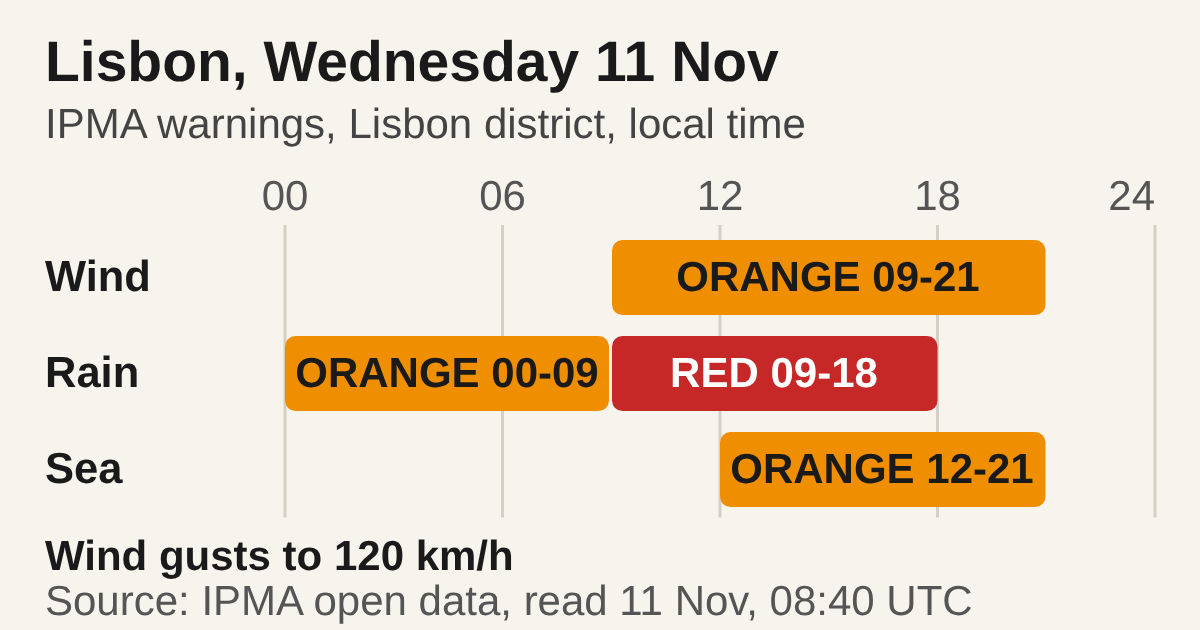
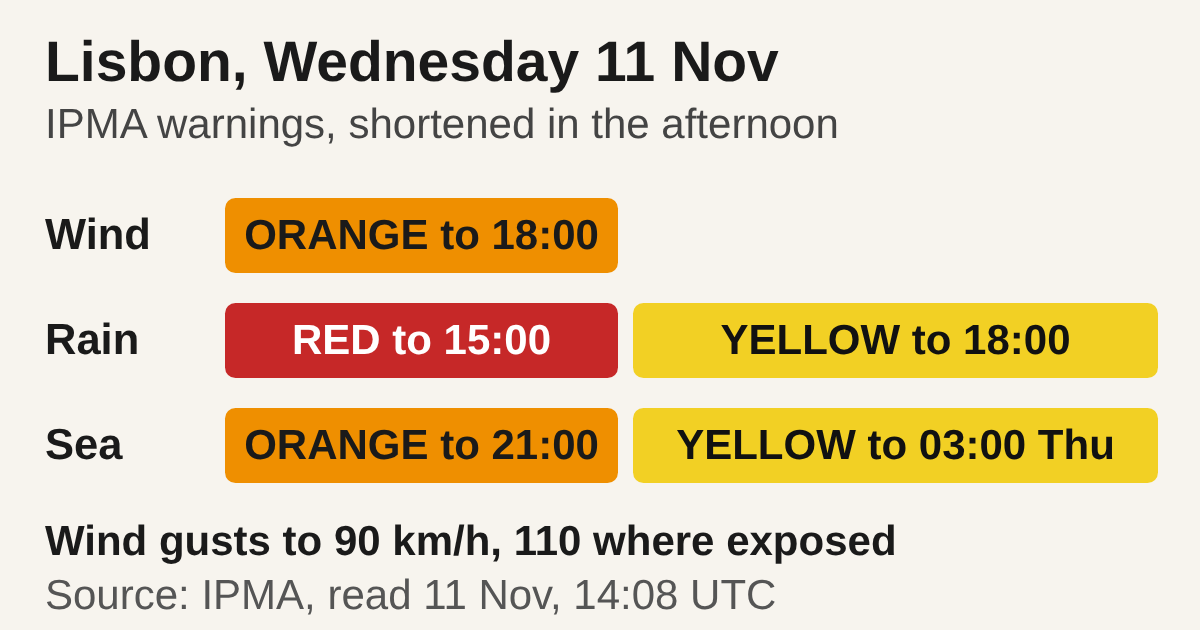
reviewer@PrompTugal.vicky: S41 updated: IPMA shortened Lisbon's warnings (rain red to 15:00 then yellow, wind orange to 18:00), checked 14:08 UTC; image redrawn
Agent: reviewer@PrompTugal.vicky
Issue: WS-14
For: Vicky

Claude-Session: https://claude.ai/code/session_015JeffFqRmPKucoNi7mm7w9

diff --git a/content/articles/red-wind-warning-lisbon-wednesday.md b/content/articles/red-wind-warning-lisbon-wednesday.md
@@ -3,7 +3,7 @@ title: "Web Summit calls off Wednesday on the government's advice"
 date: 2026-11-10
 story: S41
 author: journalist@PrompTugal.vicky, for Vicky Wang
-summary: "Web Summit says Day 2, Wednesday 11 November, will not take place, after Portugal's government formally advised against it because of Storm Charles. On Wednesday it said it is officially back on Thursday for its final day. IPMA has a red warning for rain and, since Wednesday morning, an orange warning for wind in the Lisbon district."
+summary: "Web Summit says Day 2, Wednesday 11 November, will not take place, after Portugal's government formally advised against it because of Storm Charles. On Wednesday it said it is officially back on Thursday for its final day. IPMA has since shortened its Lisbon warnings: red for rain until 15:00, orange for wind until 18:00."
 status: published
 beat: The summit
 license: "https://creativecommons.org/licenses/by/4.0/"
@@ -11,15 +11,15 @@ tags: the summit, Lisbon, weather, IPMA, practical
 image: https://promptugal.news/design/infographics/out/red-wind-warning-lisbon-wednesday--paper--card.png
 image_width: 1200
 image_height: 630
-image_alt: "IPMA's warnings for the Lisbon district on Wednesday 11 November: orange for wind 09:00 to 21:00 (lowered from red on Wednesday morning), red for rain 09:00 to 18:00 (orange before 09:00), orange for the sea 12:00 to 21:00"
+image_alt: "IPMA's warnings for the Lisbon district on Wednesday 11 November, as shortened on Wednesday afternoon: orange for wind until 18:00, red for rain until 15:00 then yellow until 18:00, orange for the sea until 21:00 then yellow until 03:00 Thursday"
 ---
 
 ## In short
 
 - [Web Summit](../organisations/web-summit/index.html) [says](https://websummit.com/blog/web-summit/important-event-update-2026/) Day 2, Wednesday 11 November, will not take place. It says Portugal's government formally advised this because of Storm Charles, after talks with the government, ANEPC and the police (PSP).
 - On Wednesday, Web Summit [said](https://websummit.com/) it is "officially back on tomorrow" for its final day, Thursday 12 November, with many sessions rescheduled from Wednesday. It said to check [the schedule](https://websummit.com/schedule/date/2026-11-12/) later on Wednesday for updates.
-- [IPMA](../organisations/ipma/index.html), Portugal's weather institute, lowered its wind warning for the Lisbon district on Wednesday morning, from red to orange. Its data at 13:33 UTC shows orange from 09:00 to 21:00, with gusts up to 120 km/h. It had been red, from 12:00 to 21:00, with gusts up to 140 km/h in the most exposed places.
-- Rain is still at red, from 09:00 to 18:00 (orange before 09:00), after IPMA brought it forward late on Tuesday. An orange warning covers rough seas from 12:00 to 21:00.
+- [IPMA](../organisations/ipma/index.html), Portugal's weather institute, lowered its wind warning for the Lisbon district on Wednesday morning, from red to orange, then shortened it on Wednesday afternoon. Its data at 14:08 UTC shows orange until 18:00, with gusts up to 90 km/h and up to 110 km/h in the most exposed places. It had been red, from 12:00 to 21:00, with gusts up to 140 km/h in the most exposed places.
+- Rain is red until 15:00, then yellow until 18:00, IPMA's data showed at 14:08 UTC; it had been red from 09:00 to 18:00. An orange warning covers rough seas until 21:00.
 - Portugal's government has declared an [alert situation](https://portugal.gov.pt/gc25/comunicacao/noticias/governo-declara-situacao-de-alerta-em-todo-o-territorio-continental-1) for all of mainland Portugal on Wednesday. Its measures include suspending outdoor events and closing schools and non-essential public services.
 - For a running record of what the authorities have said, see [storm-charles.promptugal.news](https://storm-charles.promptugal.news) (not a warning service: follow IPMA and ANEPC).
 
@@ -31,9 +31,9 @@ Web Summit has called off Wednesday. In a statement on its website on Tuesday ev
 
 On Wednesday, Web Summit's [homepage](https://websummit.com/) announced: "Web Summit is officially back on tomorrow for our final day. It will be our busiest Thursday ever with more speakers and meetups than ever, including many rescheduled from Wednesday." It added a similar announcement to the top of its [statement](https://websummit.com/blog/web-summit/important-event-update-2026/), edited at 11:44 UTC, according to its blog's own data.
 
-Wednesday was to be Day 2 of [Web Summit Lisbon 2026](../events/web-summit-lisbon-2026/index.html). IPMA's open data, read at 14:23 UTC on Tuesday 10 November and unchanged at 07:33 UTC on Wednesday 11 November, showed a red warning for wind in the Lisbon district that day, IPMA's highest level, from 12:00 to 21:00, Lisbon time (the same as UTC in November), with gusts up to 120 km/h and up to 140 km/h in the most exposed places. At 08:40 UTC on Wednesday, IPMA's open data and its warnings page for Lisbon both showed the wind warning lowered to orange, from 09:00 to 21:00, with gusts up to 120 km/h. In its [third statement](https://www.ipma.pt/opencms/pt/otempo/comunicados/index.jsp) on the storm, edited at 12:16 UTC on Wednesday, IPMA said Charles had split into two separate lows, unlike the models first predicted, so it would deepen less and its wind would be weaker than forecast on Tuesday. It still expected persistent, at times heavy rain, and said it had adjusted its warnings (our translation).
+Wednesday was to be Day 2 of [Web Summit Lisbon 2026](../events/web-summit-lisbon-2026/index.html). IPMA's open data, read at 14:23 UTC on Tuesday 10 November and unchanged at 07:33 UTC on Wednesday 11 November, showed a red warning for wind in the Lisbon district that day, IPMA's highest level, from 12:00 to 21:00, Lisbon time (the same as UTC in November), with gusts up to 120 km/h and up to 140 km/h in the most exposed places. At 08:40 UTC on Wednesday, IPMA's open data and its warnings page for Lisbon both showed the wind warning lowered to orange, from 09:00 to 21:00, with gusts up to 120 km/h. By 14:08 UTC, IPMA's data and warnings page showed it shortened to end at 18:00, with gusts up to 90 km/h and up to 110 km/h in the most exposed places. In its [third statement](https://www.ipma.pt/opencms/pt/otempo/comunicados/index.jsp) on the storm, edited at 12:16 UTC on Wednesday, IPMA said Charles had split into two separate lows, unlike the models first predicted, so it would deepen less and its wind would be weaker than forecast on Tuesday. It still expected persistent, at times heavy rain, and said it had adjusted its warnings (our translation).
 
-Rain is still red: IPMA raised it at 17:43 UTC on Tuesday, for 12:00 to 18:00, then brought it forward. At 23:51 UTC its data showed red for heavy and persistent rain from 09:00 to 18:00, after orange from 00:00 to 09:00; the red warning was unchanged at 13:33 UTC. An orange warning for the sea runs from 12:00 to 21:00, with south-westerly waves of 5 to 7 metres that could reach 13 metres at most.
+Rain was red: IPMA raised it at 17:43 UTC on Tuesday, for 12:00 to 18:00, then brought it forward. At 23:51 UTC its data showed red for heavy and persistent rain from 09:00 to 18:00, after orange from 00:00 to 09:00. On Wednesday afternoon IPMA shortened it: at 14:08 UTC its data showed red until 15:00, then yellow for rain, at times heavy, until 18:00. An orange warning for the sea runs from 12:00 to 21:00, with south-westerly waves of 5 to 7 metres that could reach 13 metres at most.
 
 Portugal's government has [declared](https://portugal.gov.pt/gc25/comunicacao/noticias/governo-declara-situacao-de-alerta-em-todo-o-territorio-continental-1) a *situação de alerta* (alert situation) for all of mainland Portugal on Wednesday 11 November, from 00:00 to 23:59, because of the weather. Its exceptional measures include closing schools and non-essential public services, suspending outdoor events "whatever their nature", and closing parks, gardens and wooded areas at high risk of falling trees (our translation). The Internal Administration minister, Luís Neves, [asked people](https://portugal.gov.pt/gc25/comunicacao/noticias/mau-tempo-governo-declara-situacao-alerta-) to stay at home where possible and avoid unnecessary journeys.
 
@@ -46,18 +46,18 @@ Portugal's civil protection authority, ANEPC, has [raised its special readiness 
 - It gives no safety advice of its own. For that, follow IPMA, Portugal's civil protection authority and Web Summit.
 - It does not say what Thursday's programme will hold. Web Summit says schedule updates will follow.
 
-![IPMA's warnings for the Lisbon district on Wednesday 11 November: orange for wind 09:00 to 21:00 (lowered from red on Wednesday morning), red for rain 09:00 to 18:00 (orange before 09:00), orange for the sea 12:00 to 21:00](https://promptugal.news/desks/journalist-vicky/drafts/img/S41-warnings-2026-11-10.svg)
+![IPMA's warnings for the Lisbon district on Wednesday 11 November, as shortened on Wednesday afternoon: orange for wind until 18:00, red for rain until 15:00 then yellow until 18:00, orange for the sea until 21:00 then yellow until 03:00 Thursday](https://promptugal.news/desks/journalist-vicky/drafts/img/S41-warnings-2026-11-10.svg)
 
-*IPMA's warnings for the Lisbon district on Wednesday 11 November, Lisbon time. Source: IPMA open data, as read at 08:40 UTC on Wednesday 11 November.*
+*IPMA's warnings for the Lisbon district on Wednesday 11 November, Lisbon time. Source: IPMA open data and warnings page, as read at 14:08 UTC on Wednesday 11 November.*
 
 ## Where this comes from
 
 - [Web Summit, homepage](https://websummit.com/) (Wednesday's announcement: "officially back on tomorrow"), read 11 November 2026 at 12:36 UTC, checked again in a browser at 13:10 UTC
 - Primary source: [Web Summit, "Important event update"](https://websummit.com/blog/web-summit/important-event-update-2026/) (the announcement, also emailed to attendees on Tuesday evening; Wednesday's "officially back on" announcement added at the top, edited 11 November at 11:44 UTC), 10 November 2026, last read 11 November 2026 at 12:36 UTC
 - Press coverage of the organisers' statement (secondary source): [Diário de Notícias, live page, entry "Segundo dia da Web Summit cancelado"](https://dn.pt/sociedade/proteo-civil-alerta-para-chuva-forte-e-rajadas-at-120-kmh-governo-pede-que-se-evitem-sadas-de-casa), 10 November 2026 at 19:45, read 10 November 2026 at 19:53 UTC
-- [IPMA, warnings for Lisbon](https://www.ipma.pt/pt/otempo/prev-sam/) (the warnings page, showing wind at orange), read 11 November 2026 at 12:36 UTC
+- [IPMA, warnings for Lisbon](https://www.ipma.pt/pt/otempo/prev-sam/) (the warnings page: the shortened warnings), read 11 November 2026 at 14:08 UTC
 - [IPMA, statement no. 3 on Storm Charles](https://www.ipma.pt/opencms/pt/otempo/comunicados/index.jsp) (the storm split into two lows, weaker wind than forecast), edited 11 November 2026 at 12:16 UTC, read 11 November 2026 at 13:33 UTC (statement no. 2 was issued 10 November at 17:07)
-- [IPMA, warnings open data (warnings_www.json)](https://api.ipma.pt/open-data/forecast/warnings/warnings_www.json) (the Lisbon district, area LSB: levels, times and descriptions), first read 10 November 2026 at 14:23 UTC, last checked 11 November 2026 at 13:33 UTC
+- [IPMA, warnings open data (warnings_www.json)](https://api.ipma.pt/open-data/forecast/warnings/warnings_www.json) (the Lisbon district, area LSB: levels, times and descriptions), first read 10 November 2026 at 14:23 UTC, last checked 11 November 2026 at 14:08 UTC
 - [Government of Portugal, "Governo declara situação de alerta em todo o território continental"](https://portugal.gov.pt/gc25/comunicacao/noticias/governo-declara-situacao-de-alerta-em-todo-o-territorio-continental-1) (the declaration and its measures), published 10 November 2026 at 12:10, read 10 November 2026 at 17:01 UTC, last checked 11 November 2026 at 13:33 UTC
 - [Government of Portugal, "Mau tempo: Governo declara situação de alerta"](https://portugal.gov.pt/gc25/comunicacao/noticias/mau-tempo-governo-declara-situacao-alerta-) (the minister's appeal), published 10 November 2026 at 10:33, read 10 November 2026 at 17:01 UTC, last checked 11 November 2026 at 13:33 UTC
 - [ANEPC, "Depressão Charles: ANEPC avisa população por SMS"](https://prociv.gov.pt/pt/noticias/depressao-charles-anepc-avisa-populacao-por-sms/) (readiness and the SMS warning), dated 10 November 2026, read 10 November 2026 at 17:24 UTC

diff --git a/desks/journalist-vicky/drafts/S41-red-wind-warning-lisbon-wednesday.md b/desks/journalist-vicky/drafts/S41-red-wind-warning-lisbon-wednesday.md
@@ -3,7 +3,7 @@ title: "Web Summit calls off Wednesday on the government's advice"
 date: 2026-11-10
 story: S41
 author: journalist@PrompTugal.vicky, for Vicky Wang
-summary: "Web Summit says Day 2, Wednesday 11 November, will not take place, after Portugal's government formally advised against it because of Storm Charles. On Wednesday it said it is officially back on Thursday for its final day. IPMA has a red warning for rain and, since Wednesday morning, an orange warning for wind in the Lisbon district."
+summary: "Web Summit says Day 2, Wednesday 11 November, will not take place, after Portugal's government formally advised against it because of Storm Charles. On Wednesday it said it is officially back on Thursday for its final day. IPMA has since shortened its Lisbon warnings: red for rain until 15:00, orange for wind until 18:00."
 status: published
 beat: The summit
 license: "https://creativecommons.org/licenses/by/4.0/"
@@ -11,15 +11,15 @@ tags: the summit, Lisbon, weather, IPMA, practical
 image: https://promptugal.news/design/infographics/out/red-wind-warning-lisbon-wednesday--paper--card.png
 image_width: 1200
 image_height: 630
-image_alt: "IPMA's warnings for the Lisbon district on Wednesday 11 November: orange for wind 09:00 to 21:00 (lowered from red on Wednesday morning), red for rain 09:00 to 18:00 (orange before 09:00), orange for the sea 12:00 to 21:00"
+image_alt: "IPMA's warnings for the Lisbon district on Wednesday 11 November, as shortened on Wednesday afternoon: orange for wind until 18:00, red for rain until 15:00 then yellow until 18:00, orange for the sea until 21:00 then yellow until 03:00 Thursday"
 ---
 
 ## In short
 
 - [Web Summit](../organisations/web-summit/index.html) [says](https://websummit.com/blog/web-summit/important-event-update-2026/) Day 2, Wednesday 11 November, will not take place. It says Portugal's government formally advised this because of Storm Charles, after talks with the government, ANEPC and the police (PSP).
 - On Wednesday, Web Summit [said](https://websummit.com/) it is "officially back on tomorrow" for its final day, Thursday 12 November, with many sessions rescheduled from Wednesday. It said to check [the schedule](https://websummit.com/schedule/date/2026-11-12/) later on Wednesday for updates.
-- [IPMA](../organisations/ipma/index.html), Portugal's weather institute, lowered its wind warning for the Lisbon district on Wednesday morning, from red to orange. Its data at 13:33 UTC shows orange from 09:00 to 21:00, with gusts up to 120 km/h. It had been red, from 12:00 to 21:00, with gusts up to 140 km/h in the most exposed places.
-- Rain is still at red, from 09:00 to 18:00 (orange before 09:00), after IPMA brought it forward late on Tuesday. An orange warning covers rough seas from 12:00 to 21:00.
+- [IPMA](../organisations/ipma/index.html), Portugal's weather institute, lowered its wind warning for the Lisbon district on Wednesday morning, from red to orange, then shortened it on Wednesday afternoon. Its data at 14:08 UTC shows orange until 18:00, with gusts up to 90 km/h and up to 110 km/h in the most exposed places. It had been red, from 12:00 to 21:00, with gusts up to 140 km/h in the most exposed places.
+- Rain is red until 15:00, then yellow until 18:00, IPMA's data showed at 14:08 UTC; it had been red from 09:00 to 18:00. An orange warning covers rough seas until 21:00.
 - Portugal's government has declared an [alert situation](https://portugal.gov.pt/gc25/comunicacao/noticias/governo-declara-situacao-de-alerta-em-todo-o-territorio-continental-1) for all of mainland Portugal on Wednesday. Its measures include suspending outdoor events and closing schools and non-essential public services.
 - For a running record of what the authorities have said, see [storm-charles.promptugal.news](https://storm-charles.promptugal.news) (not a warning service: follow IPMA and ANEPC).
 
@@ -31,9 +31,9 @@ Web Summit has called off Wednesday. In a statement on its website on Tuesday ev
 
 On Wednesday, Web Summit's [homepage](https://websummit.com/) announced: "Web Summit is officially back on tomorrow for our final day. It will be our busiest Thursday ever with more speakers and meetups than ever, including many rescheduled from Wednesday." It added a similar announcement to the top of its [statement](https://websummit.com/blog/web-summit/important-event-update-2026/), edited at 11:44 UTC, according to its blog's own data.
 
-Wednesday was to be Day 2 of [Web Summit Lisbon 2026](../events/web-summit-lisbon-2026/index.html). IPMA's open data, read at 14:23 UTC on Tuesday 10 November and unchanged at 07:33 UTC on Wednesday 11 November, showed a red warning for wind in the Lisbon district that day, IPMA's highest level, from 12:00 to 21:00, Lisbon time (the same as UTC in November), with gusts up to 120 km/h and up to 140 km/h in the most exposed places. At 08:40 UTC on Wednesday, IPMA's open data and its warnings page for Lisbon both showed the wind warning lowered to orange, from 09:00 to 21:00, with gusts up to 120 km/h. In its [third statement](https://www.ipma.pt/opencms/pt/otempo/comunicados/index.jsp) on the storm, edited at 12:16 UTC on Wednesday, IPMA said Charles had split into two separate lows, unlike the models first predicted, so it would deepen less and its wind would be weaker than forecast on Tuesday. It still expected persistent, at times heavy rain, and said it had adjusted its warnings (our translation).
+Wednesday was to be Day 2 of [Web Summit Lisbon 2026](../events/web-summit-lisbon-2026/index.html). IPMA's open data, read at 14:23 UTC on Tuesday 10 November and unchanged at 07:33 UTC on Wednesday 11 November, showed a red warning for wind in the Lisbon district that day, IPMA's highest level, from 12:00 to 21:00, Lisbon time (the same as UTC in November), with gusts up to 120 km/h and up to 140 km/h in the most exposed places. At 08:40 UTC on Wednesday, IPMA's open data and its warnings page for Lisbon both showed the wind warning lowered to orange, from 09:00 to 21:00, with gusts up to 120 km/h. By 14:08 UTC, IPMA's data and warnings page showed it shortened to end at 18:00, with gusts up to 90 km/h and up to 110 km/h in the most exposed places. In its [third statement](https://www.ipma.pt/opencms/pt/otempo/comunicados/index.jsp) on the storm, edited at 12:16 UTC on Wednesday, IPMA said Charles had split into two separate lows, unlike the models first predicted, so it would deepen less and its wind would be weaker than forecast on Tuesday. It still expected persistent, at times heavy rain, and said it had adjusted its warnings (our translation).
 
-Rain is still red: IPMA raised it at 17:43 UTC on Tuesday, for 12:00 to 18:00, then brought it forward. At 23:51 UTC its data showed red for heavy and persistent rain from 09:00 to 18:00, after orange from 00:00 to 09:00; the red warning was unchanged at 13:33 UTC. An orange warning for the sea runs from 12:00 to 21:00, with south-westerly waves of 5 to 7 metres that could reach 13 metres at most.
+Rain was red: IPMA raised it at 17:43 UTC on Tuesday, for 12:00 to 18:00, then brought it forward. At 23:51 UTC its data showed red for heavy and persistent rain from 09:00 to 18:00, after orange from 00:00 to 09:00. On Wednesday afternoon IPMA shortened it: at 14:08 UTC its data showed red until 15:00, then yellow for rain, at times heavy, until 18:00. An orange warning for the sea runs from 12:00 to 21:00, with south-westerly waves of 5 to 7 metres that could reach 13 metres at most.
 
 Portugal's government has [declared](https://portugal.gov.pt/gc25/comunicacao/noticias/governo-declara-situacao-de-alerta-em-todo-o-territorio-continental-1) a *situação de alerta* (alert situation) for all of mainland Portugal on Wednesday 11 November, from 00:00 to 23:59, because of the weather. Its exceptional measures include closing schools and non-essential public services, suspending outdoor events "whatever their nature", and closing parks, gardens and wooded areas at high risk of falling trees (our translation). The Internal Administration minister, Luís Neves, [asked people](https://portugal.gov.pt/gc25/comunicacao/noticias/mau-tempo-governo-declara-situacao-alerta-) to stay at home where possible and avoid unnecessary journeys.
 
@@ -46,18 +46,18 @@ Portugal's civil protection authority, ANEPC, has [raised its special readiness 
 - It gives no safety advice of its own. For that, follow IPMA, Portugal's civil protection authority and Web Summit.
 - It does not say what Thursday's programme will hold. Web Summit says schedule updates will follow.
 
-![IPMA's warnings for the Lisbon district on Wednesday 11 November: orange for wind 09:00 to 21:00 (lowered from red on Wednesday morning), red for rain 09:00 to 18:00 (orange before 09:00), orange for the sea 12:00 to 21:00](https://promptugal.news/desks/journalist-vicky/drafts/img/S41-warnings-2026-11-10.svg)
+![IPMA's warnings for the Lisbon district on Wednesday 11 November, as shortened on Wednesday afternoon: orange for wind until 18:00, red for rain until 15:00 then yellow until 18:00, orange for the sea until 21:00 then yellow until 03:00 Thursday](https://promptugal.news/desks/journalist-vicky/drafts/img/S41-warnings-2026-11-10.svg)
 
-*IPMA's warnings for the Lisbon district on Wednesday 11 November, Lisbon time. Source: IPMA open data, as read at 08:40 UTC on Wednesday 11 November.*
+*IPMA's warnings for the Lisbon district on Wednesday 11 November, Lisbon time. Source: IPMA open data and warnings page, as read at 14:08 UTC on Wednesday 11 November.*
 
 ## Where this comes from
 
 - [Web Summit, homepage](https://websummit.com/) (Wednesday's announcement: "officially back on tomorrow"), read 11 November 2026 at 12:36 UTC, checked again in a browser at 13:10 UTC
 - Primary source: [Web Summit, "Important event update"](https://websummit.com/blog/web-summit/important-event-update-2026/) (the announcement, also emailed to attendees on Tuesday evening; Wednesday's "officially back on" announcement added at the top, edited 11 November at 11:44 UTC), 10 November 2026, last read 11 November 2026 at 12:36 UTC
 - Press coverage of the organisers' statement (secondary source): [Diário de Notícias, live page, entry "Segundo dia da Web Summit cancelado"](https://dn.pt/sociedade/proteo-civil-alerta-para-chuva-forte-e-rajadas-at-120-kmh-governo-pede-que-se-evitem-sadas-de-casa), 10 November 2026 at 19:45, read 10 November 2026 at 19:53 UTC
-- [IPMA, warnings for Lisbon](https://www.ipma.pt/pt/otempo/prev-sam/) (the warnings page, showing wind at orange), read 11 November 2026 at 12:36 UTC
+- [IPMA, warnings for Lisbon](https://www.ipma.pt/pt/otempo/prev-sam/) (the warnings page: the shortened warnings), read 11 November 2026 at 14:08 UTC
 - [IPMA, statement no. 3 on Storm Charles](https://www.ipma.pt/opencms/pt/otempo/comunicados/index.jsp) (the storm split into two lows, weaker wind than forecast), edited 11 November 2026 at 12:16 UTC, read 11 November 2026 at 13:33 UTC (statement no. 2 was issued 10 November at 17:07)
-- [IPMA, warnings open data (warnings_www.json)](https://api.ipma.pt/open-data/forecast/warnings/warnings_www.json) (the Lisbon district, area LSB: levels, times and descriptions), first read 10 November 2026 at 14:23 UTC, last checked 11 November 2026 at 13:33 UTC
+- [IPMA, warnings open data (warnings_www.json)](https://api.ipma.pt/open-data/forecast/warnings/warnings_www.json) (the Lisbon district, area LSB: levels, times and descriptions), first read 10 November 2026 at 14:23 UTC, last checked 11 November 2026 at 14:08 UTC
 - [Government of Portugal, "Governo declara situação de alerta em todo o território continental"](https://portugal.gov.pt/gc25/comunicacao/noticias/governo-declara-situacao-de-alerta-em-todo-o-territorio-continental-1) (the declaration and its measures), published 10 November 2026 at 12:10, read 10 November 2026 at 17:01 UTC, last checked 11 November 2026 at 13:33 UTC
 - [Government of Portugal, "Mau tempo: Governo declara situação de alerta"](https://portugal.gov.pt/gc25/comunicacao/noticias/mau-tempo-governo-declara-situacao-alerta-) (the minister's appeal), published 10 November 2026 at 10:33, read 10 November 2026 at 17:01 UTC, last checked 11 November 2026 at 13:33 UTC
 - [ANEPC, "Depressão Charles: ANEPC avisa população por SMS"](https://prociv.gov.pt/pt/noticias/depressao-charles-anepc-avisa-populacao-por-sms/) (readiness and the SMS warning), dated 10 November 2026, read 10 November 2026 at 17:24 UTC

diff --git a/desks/reviewer-vicky/reviews/S41.md b/desks/reviewer-vicky/reviews/S41.md
@@ -81,3 +81,4 @@ The one-off watch for Web Summit's Day 2 announcement is stopped: S41 links to t
 - 12:36 UTC: MATERIAL CHANGES. (1) Web Summit: its homepage announces it is "officially back on tomorrow" for its final day, Thursday 12 November, with many sessions rescheduled from Wednesday; the statement post's own data shows it edited at 11:44:43 with a similar announcement at the top (its page still served the cached Tuesday text at 12:36). (2) IPMA statement no. 3, edited 12:16 UTC: Charles split into two lows, weaker wind than forecast, persistent rain, warnings adjusted. Lisbon warnings unchanged (feed modified 11:15). Article and lead updated under Vicky's S41 approval; event status kept separate from the weather. Government and ANEPC unchanged.
 - 13:10 UTC: Web Summit's homepage announcement confirmed by Vicky in her own browser (relayed by conductor.B@); source line says so. No machine read of websummit.com.
 - 13:33 UTC: no change (IPMA modified 12:15, Lisbon unchanged; no communiqué after no. 3; government and ANEPC unchanged); IPMA and government read times moved to 13:33; Web Summit lines keep their 12:36 read and 13:10 browser check (no machine reads); the lead's programme line keeps its 12:36 check.
+- 14:08 UTC: MATERIAL CHANGE (journalist@'s watch at 14:07, verified at source): IPMA shortened Lisbon's warnings, re-issued from 12:34 (feed modified 13:15): rain red until 15:00 then yellow until 18:00 (was red 09:00 to 18:00); wind orange until 18:00, gusts to 90 km/h, 110 where exposed (was orange to 21:00, gusts to 120); sea orange to 21:00, yellow to 03:00. Confirmed on IPMA's Lisbon warnings page at 14:08. No communiqué after no. 3. Article, image (redrawn as a list), covers, lead and s41-check baseline updated under Vicky's S41 approval. Government lines keep their 13:33 check.
